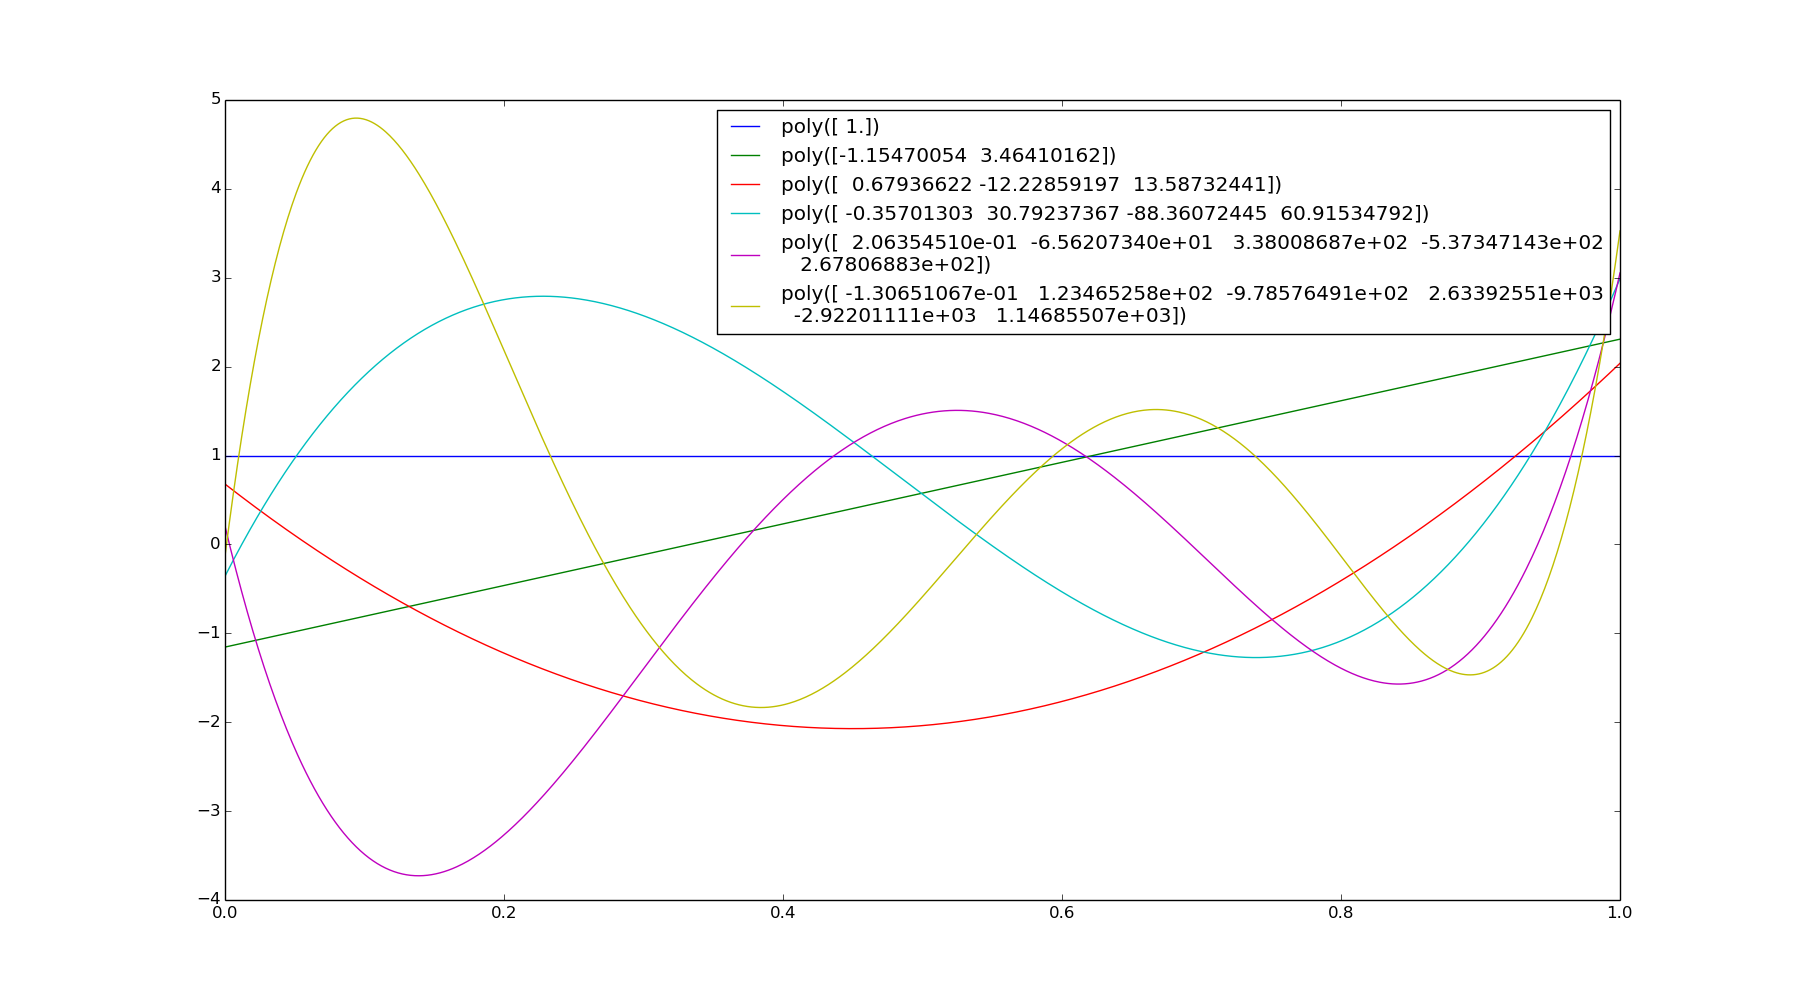
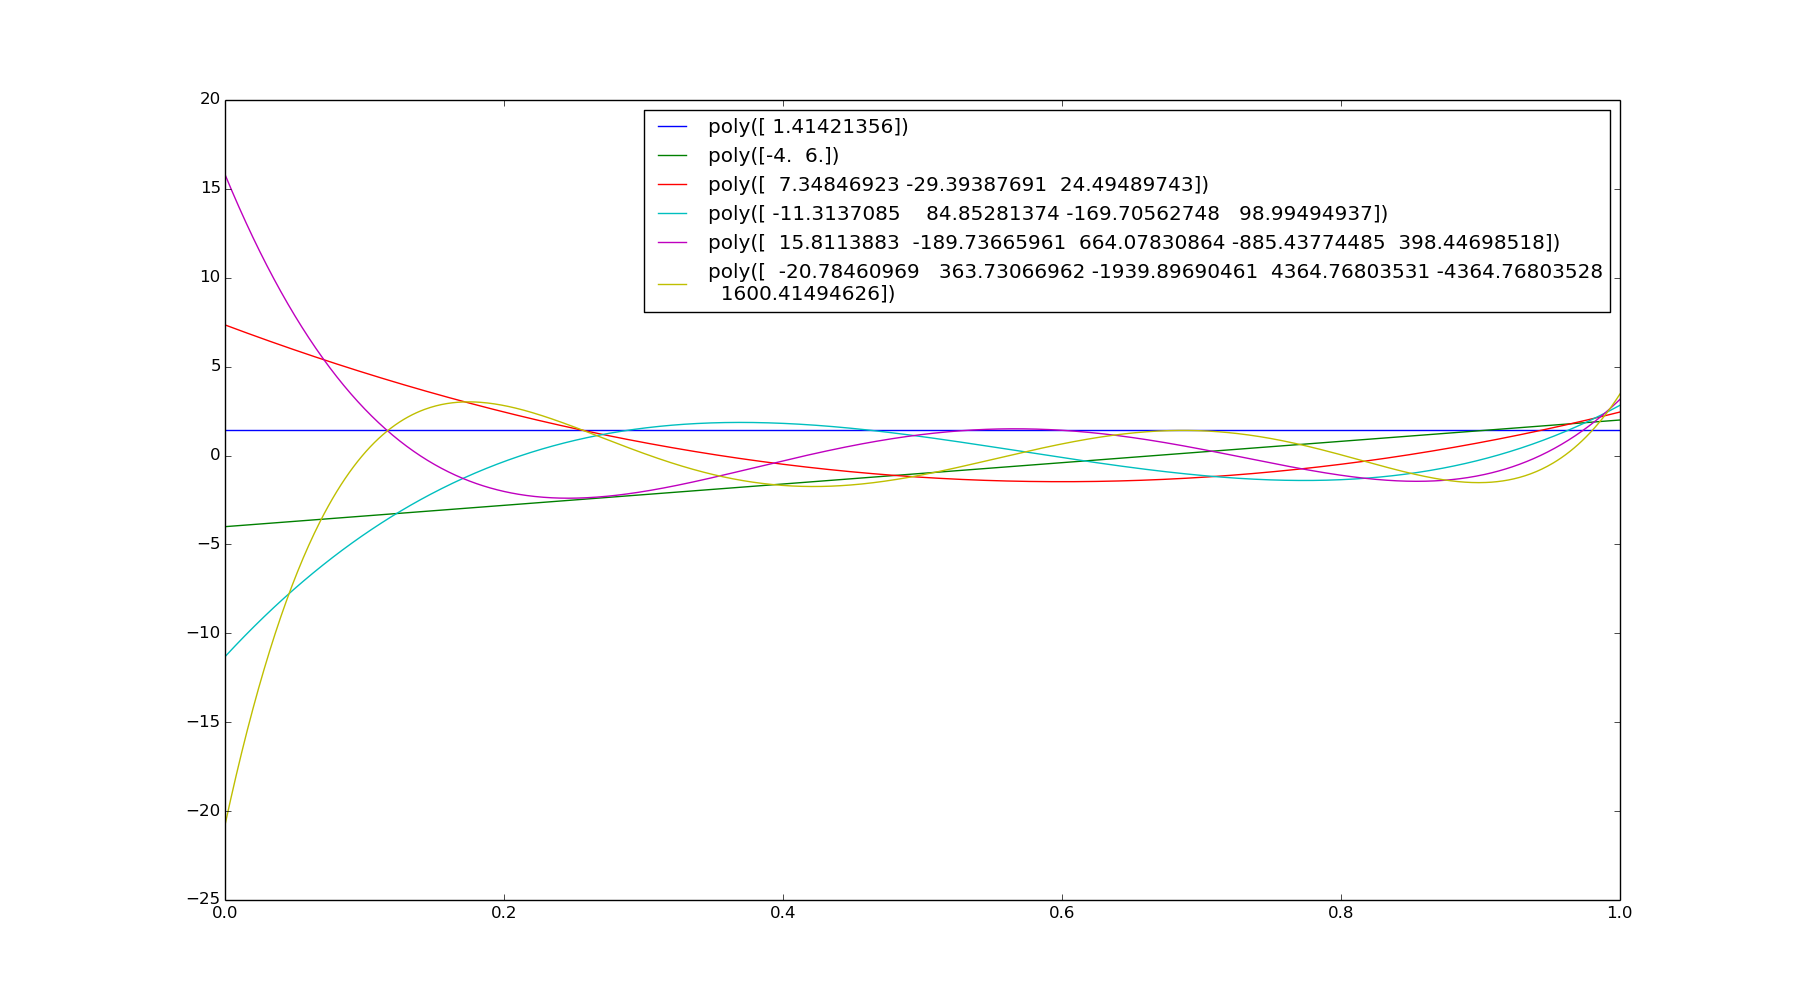
final ortho with plots

diff --git a/orth/q1.py b/orth/q1.py
@@ -1,4 +1,5 @@
 from scipy import *
+from scipy import integrate
 from matplotlib.pyplot import *
 from numpy.polynomial.polynomial import Polynomial as P
 from numpy import *
@@ -22,7 +23,8 @@ def dotP_type2(a, b):
 ## _get_one_orthogonal(dotP_type1, 3, [P([0,0,1]), P([0,1]), P([0,0,0,1]))
 def _get_one_orthogonal(dotP, deg, orthoSet):
 	if(deg == 0):
-		return P([1])
+		k = P([1])
+		return k / math.sqrt(dotP(k, k))
 	else:
 		k = P(append(zeros(deg), 1))
 		for j in orthoSet:
@@ -67,3 +69,39 @@ def plot_orthonormal_for_5deg(dotP, fname, figname):
 plot_orthonormal_for_5deg(dotP_type1,'orthoPlot_type1.png', "bases from 1 to 5 type 1")
 plot_orthonormal_for_5deg(dotP_type2,'orthoPlot_type2.png', "bases from 1 to 5 type 2")
 
+def get_basis(f, d):
+	a = [ (integrate.quad(lambda x : f(x)*i(x), 0, 1))[0]  for i in d]
+	return a
+
+def get_function(a, d):
+	k = P([0])
+	for i in range(len(d)):
+		k += a[i]*d[i]	
+	return k
+
+def sin_taylor(x):
+	return 1 - 0.5*power(pi*(x-0.5), 2) + 1/4/3/2*power(pi*(x-0.5), 4)
+
+d1 = get_orthogonal(dotP_type1, 5)
+a1 = get_basis(lambda x : sin(pi*x), d1)
+e1 = get_function(a1, d1)
+
+d2 = get_orthogonal(dotP_type2, 5)
+a2 = get_basis(lambda x : sin(pi*x), d2)
+e2 = get_function(a2, d2)
+
+x = linspace(0, 1, 100)
+figure("test", figsize=(18,10))
+plot(x, e1(x),'ro', label="approx type 1")
+plot(x, e2(x),'go', label="approx type 2")
+plot(x, sin(pi*x), label="sin")
+plot(x, sin_taylor(x),'bo', label="taylor")
+legend()
+savefig("approx.png")
+
+figure ("error", figsize=(18,10))
+loglog(abs(x-0.5), abs(sin(pi*x)-e1(x)), label="orthogonal fit")
+loglog(abs(x-0.5), abs(sin(pi*x)-sin_taylor(x)), label="taylor fit")
+legend()
+savefig("error_log_log.png")
+#show()
